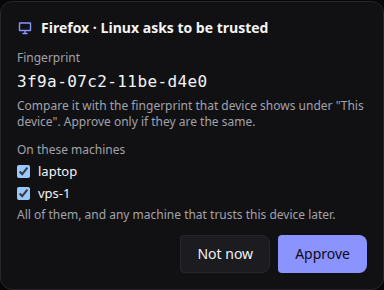
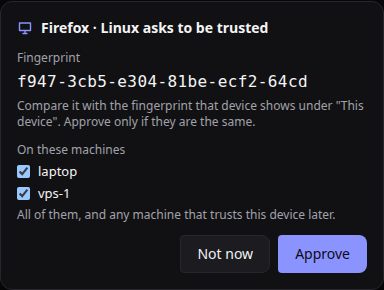
fix(web,tui): sign registrations and asks, 96-bit fingerprints, 64-bit web ids (ADR-0061 review)
- web: registration and "Ask another device" carry this device's own signature
  (agora-device-register-v1 / agora-device-ask-v1); a card is shown only for a device whose
  registration proof verifies in the browser; fingerprints are 96 bits; new browser ids have 64
  random bits (stored ids stay valid).
- tui: same signatures, fingerprint, and proof check before `v` shows a request; names shown
  cleaned and capped.
- Vectors cover registrations and asks; screenshots refreshed; re-verified end to end in a real
  browser against an isolated hub and node.

Changed region(s): [[0.4375, 0.2483, 0.8125, 0.3103], [0.0312, 0.2483, 0.4062, 0.3103]]

diff --git a/apps/web/src/App.tsx b/apps/web/src/App.tsx
@@ -23,7 +23,7 @@ import { commitsOf, type CommitItem } from './net/history';
 import type { WorkspaceFiles } from './net/files';
 import { demoSource } from './terminal/source';
 import { AuditPage, DevicePage, Focus, Gallery, MachinesPage, SignInPage, type MyDevice } from './screens';
-import { browserName, canBeApprovedOn, fingerprint, fromHex, signEndorsement, signRevocation, trustedBy, waitingForApproval, type DeviceInfo } from './net/devices';
+import { browserName, canBeApprovedOn, fingerprint, fromHex, registrationVerifies, signAsk, signEndorsement, signRegistration, signRevocation, trustedBy, waitingForApproval, type DeviceInfo } from './net/devices';
 import { DeviceRequest } from './components/DeviceRequest';
 import { num } from './net/view';
 import { loadAudit } from './net/audit';
@@ -73,6 +73,7 @@ export function App() {
   const [mine, setMine] = useState<DeviceInfo[]>([]);
   const [prints, setPrints] = useState<Map<string, string>>(new Map());
   const [later, setLater] = useState<Set<string>>(new Set());
+  const [proven, setProven] = useState<Set<string>>(new Set());
   const [notice, setNotice] = useState<string | undefined>();
   const [starting, setStarting] = useState<{ node?: string } | false>(false);
   // A machine refused a command until the owner allows it (ADR-0041): what was asked, shown as a dialog.
@@ -172,7 +173,7 @@ export function App() {
   useEffect(() => {
     if (!api || !device || !live) return;
     let stop = false;
-    void api.command('', { deviceRegister: { deviceId: device.id, name: browserName(), publicKey: fromHex(device.publicKeyHex) } })
+    void signRegistration(device, browserName(), Date.now()).then((r) => api.command('', { deviceRegister: r }))
       .catch(() => undefined).then(() => { if (!stop) void refreshDevices(); });
     const timer = setInterval(() => { void refreshDevices(); }, 15_000);
     return () => { stop = true; clearInterval(timer); };
@@ -183,11 +184,13 @@ export function App() {
     if (device) keys.push([device.id, fromHex(device.publicKeyHex)]);
     void Promise.all(keys.map(async ([id, k]) => [id, k.length === 65 ? await fingerprint(k) : ''] as const))
       .then((e) => { if (!stop) setPrints(new Map(e)); }, () => undefined);
+    void Promise.all(mine.map(async (d) => ((await registrationVerifies(d)) ? d.deviceId ?? '' : '')))
+      .then((ids) => { if (!stop) setProven(new Set(ids.filter(Boolean))); }, () => undefined);
     return () => { stop = true; };
   }, [mine, device]);
   const askApproval = useCallback(async (): Promise<boolean> => {
     if (!api || !device) return false;
-    try { await api.command('', { deviceAskApproval: { deviceId: device.id } }); void refreshDevices(); return true; } catch { return false; }
+    try { await api.command('', { deviceAskApproval: await signAsk(device, Date.now()) }); void refreshDevices(); return true; } catch { return false; }
   }, [api, device, refreshDevices]);
   const approveDevice = useCallback(async (d: DeviceInfo, nodes: string[]): Promise<boolean> => {
     if (!api || !device || !d.deviceId || !d.publicKey) return false;
@@ -203,7 +206,7 @@ export function App() {
     try { await api.command('', { deviceRevoke: { revocation: await signRevocation(device, id, Date.now()) } }); void refreshDevices(); return true; } catch { return false; }
   }, [api, device, refreshDevices]);
   const trustedOn = device ? trustedBy(live?.trusted, device.id) : [];
-  const waiting = device && trustedOn.length ? waitingForApproval(mine, device.id).filter((d) => !later.has(d.deviceId ?? '')) : [];
+  const waiting = device && trustedOn.length ? waitingForApproval(mine, device.id).filter((d) => !later.has(d.deviceId ?? '') && proven.has(d.deviceId ?? '')) : [];
   const others: MyDevice[] = mine.filter((d) => d.deviceId && d.deviceId !== device?.id).map((d) => ({
     id: d.deviceId ?? '', name: d.name ?? '', fingerprint: prints.get(d.deviceId ?? '') ?? '', lastUsedMs: num(d.lastUsedMs),
     trustedOn: trustedBy(live?.trusted, d.deviceId ?? ''), waiting: num(d.approvalAskedMs) > 0, removed: num(d.revokedMs) > 0,

diff --git a/apps/web/src/net/devices.ts b/apps/web/src/net/devices.ts
@@ -55,10 +55,51 @@ export function fromHex(hex: string): Uint8Array {
   return out;
 }
 
-// What people compare: the first 8 bytes of the SHA-256 of the 65-byte key, in groups of 2 bytes joined by `-`.
+// What people compare: the first 12 bytes (96 bits) of the SHA-256 of the 65-byte key, in groups of 4 hex digits joined by `-`.
+// Always computed here from the key bytes, never taken from the hub.
 export async function fingerprint(publicKey: Uint8Array, subtle: SubtleCrypto = crypto.subtle): Promise<string> {
-  const d = toHex(new Uint8Array(await subtle.digest('SHA-256', publicKey as BufferSource)).slice(0, 8));
-  return [0, 4, 8, 12].map((i) => d.slice(i, i + 4)).join('-');
+  const d = toHex(new Uint8Array(await subtle.digest('SHA-256', publicKey as BufferSource)).slice(0, 12));
+  return [0, 4, 8, 12, 16, 20].map((i) => d.slice(i, i + 4)).join('-');
+}
+
+// Proof of possession (ADR-0061): what this device signs to register itself, and to ask another device to approve it.
+export function registerMessage(deviceId: string, name: string, publicKey: Uint8Array, signedAtMs: number): Uint8Array {
+  const out = [...enc.encode('agora-device-register-v1'), 0];
+  field(out, deviceId);
+  field(out, name);
+  field(out, toHex(publicKey));
+  field(out, String(signedAtMs));
+  return Uint8Array.from(out);
+}
+
+export function askMessage(deviceId: string, signedAtMs: number): Uint8Array {
+  const out = [...enc.encode('agora-device-ask-v1'), 0];
+  field(out, deviceId);
+  field(out, String(signedAtMs));
+  return Uint8Array.from(out);
+}
+
+const sign = async (device: Device, m: Uint8Array, subtle: SubtleCrypto) =>
+  new Uint8Array(await subtle.sign({ name: 'ECDSA', hash: 'SHA-256' }, device.keys.privateKey, m as BufferSource));
+
+export async function signRegistration(device: Device, name: string, nowMs: number, subtle: SubtleCrypto = crypto.subtle): Promise<agora.v1.IDeviceRegister> {
+  const publicKey = fromHex(device.publicKeyHex);
+  return { deviceId: device.id, name, publicKey, signedAtMs: nowMs, signature: await sign(device, registerMessage(device.id, name, publicKey, nowMs), subtle) };
+}
+
+// Did the holder of the device's key register it as listed? The card for a device that asks is shown only then: a hub cannot make up
+// a request for a key nobody holds.
+export async function registrationVerifies(d: DeviceInfo, subtle: SubtleCrypto = crypto.subtle): Promise<boolean> {
+  const key = d.publicKey, sig = d.registrationSignature;
+  if (!key || key.length !== 65 || !sig || sig.length !== 64 || !d.deviceId) return false;
+  try {
+    const k = await subtle.importKey('raw', key as BufferSource, { name: 'ECDSA', namedCurve: 'P-256' }, false, ['verify']);
+    return await subtle.verify({ name: 'ECDSA', hash: 'SHA-256' }, k, sig as BufferSource, registerMessage(d.deviceId, d.name ?? '', key, Number(d.signedAtMs ?? 0)) as BufferSource);
+  } catch { return false; }
+}
+
+export async function signAsk(device: Device, nowMs: number, subtle: SubtleCrypto = crypto.subtle): Promise<agora.v1.IDeviceAskApproval> {
+  return { deviceId: device.id, signedAtMs: nowMs, signature: await sign(device, askMessage(device.id, nowMs), subtle) };
 }
 
 // The name this browser registers under: the browser and the system, as the person would say it ("Firefox on Linux").

diff --git a/apps/web/src/net/devices.test.ts b/apps/web/src/net/devices.test.ts
@@ -2,7 +2,7 @@ import { describe, expect, it } from 'vitest';
 import vectors from '../../../../schema/fixtures/signing/device-trust-v1.json';
 import { thisDevice, toHex, type KeyStore } from './approval';
 import { applyEvent, fromSnapshot } from './view';
-import { browserName, canBeApprovedOn, endorseMessage, fingerprint, fromHex, revokeMessage, signEndorsement, trustedBy, waitingForApproval } from './devices';
+import { askMessage, browserName, canBeApprovedOn, endorseMessage, fingerprint, fromHex, registerMessage, registrationVerifies, revokeMessage, signAsk, signEndorsement, signRegistration, trustedBy, waitingForApproval } from './devices';
 
 function memoryStore(): KeyStore {
   let saved: Awaited<ReturnType<KeyStore['load']>>;
@@ -24,6 +24,25 @@ describe('device endorsements (ADR-0061)', () => {
       expect(toHex(m), c.case).toBe(c.hex);
       expect(await crypto.subtle.verify(ES256, endorser, fromHex(c.signature) as BufferSource, m as BufferSource)).toBe(true);
     }
+  });
+
+  it('proves it holds its key when it registers and asks, as the hub and the node check', async () => {
+    const key = await crypto.subtle.importKey('raw', fromHex(vectors.endorser_public_key) as BufferSource, { name: 'ECDSA', namedCurve: 'P-256' }, false, ['verify']);
+    for (const c of vectors.registrations) {
+      const m = registerMessage(c.device_id, c.name, fromHex(c.public_key), c.signed_at_ms);
+      expect(toHex(m), c.case).toBe(c.hex);
+      expect(await crypto.subtle.verify(ES256, key, fromHex(c.signature) as BufferSource, m as BufferSource)).toBe(true);
+    }
+    for (const c of vectors.asks) expect(toHex(askMessage(c.device_id, c.signed_at_ms))).toBe(c.hex);
+    const me = await thisDevice(memoryStore());
+    const r = await signRegistration(me, 'Firefox · Linux', 1_700_000_000_000);
+    expect(await crypto.subtle.verify(ES256, me.keys.publicKey, r.signature as BufferSource, registerMessage(me.id, 'Firefox · Linux', fromHex(me.publicKeyHex), 1_700_000_000_000) as BufferSource)).toBe(true);
+    expect(await registrationVerifies({ ...r, registrationSignature: r.signature })).toBe(true);
+    expect(await registrationVerifies({ ...r, name: 'Renamed by the hub', registrationSignature: r.signature })).toBe(false);
+    const other = await thisDevice(memoryStore());
+    expect(await registrationVerifies({ ...r, publicKey: fromHex(other.publicKeyHex), registrationSignature: r.signature })).toBe(false);
+    const a = await signAsk(me, 1_700_000_000_500);
+    expect(await crypto.subtle.verify(ES256, me.keys.publicKey, a.signature as BufferSource, askMessage(me.id, 1_700_000_000_500) as BufferSource)).toBe(true);
   });
 
   it('shows the same fingerprint as every other client', async () => {

diff --git a/apps/web/src/screens.tsx b/apps/web/src/screens.tsx
@@ -85,7 +85,7 @@ function Themed({ theme }: { theme: 'dark' | 'light' }) {
       <AgentAddress agent={{ ...demoHelper, machineId: 'laptop', id: 'laptop/a8' }} />
       <StartApproval approval={demoStartApproval} start={demoStartApproval.start} onResolve={() => {}} />
       <HelperGrants list={async () => [{ id: 'ap-1', kind: 'codex', folder: '/home/dev/code/login-fix', remaining: 2 }]} revoke={async () => {}} refresh={0} />
-      <DeviceRequest inline request={{ id: 'web-3fa9c1', name: 'Firefox · Linux', fingerprint: '3f9a-07c2-11be-d4e0' }}
+      <DeviceRequest inline request={{ id: 'web-3fa9c1d24e5b6a70', name: 'Firefox · Linux', fingerprint: 'f947-3cb5-e304-81be-ecf2-64cd' }}
         machines={[{ id: 'laptop', name: 'laptop' }, { id: 'vps-1', name: 'vps-1' }]} onApprove={async () => true} onLater={() => {}} />
       <div className="gallery__row">
         <button type="button" className="button button--primary">{t('action-start-agent')}</button>

diff --git a/apps/web/src/net/approval.ts b/apps/web/src/net/approval.ts
@@ -54,7 +54,8 @@ export async function thisDevice(store: KeyStore, subtle: SubtleCrypto = crypto.
   let saved = await store.load();
   if (!saved) {
     const keys = await subtle.generateKey(ALGORITHM, false, ['sign', 'verify']);
-    const suffix = toHex(crypto.getRandomValues(new Uint8Array(3)));
+    // 64 random bits (ids made before ADR-0061's review have 24 and stay valid: they are read back as stored).
+    const suffix = toHex(crypto.getRandomValues(new Uint8Array(8)));
     saved = { id: `web-${suffix}`, keys };
     await store.save(saved);
   }

diff --git a/apps/web/src/net/approval.test.ts b/apps/web/src/net/approval.test.ts
@@ -17,7 +17,7 @@ describe('approval signatures', () => {
   it('keeps one device key, whose raw signature verifies against its public key', async () => {
     const store = memoryStore();
     const d = await thisDevice(store);
-    expect(d.id).toMatch(/^web-[0-9a-f]{6}$/);
+    expect(d.id).toMatch(/^web-[0-9a-f]{16}$/); // 64 random bits
     expect(d.publicKeyHex).toHaveLength(130); // 65 bytes
     expect(d.publicKeyHex.startsWith('04')).toBe(true);
     expect((await thisDevice(store)).publicKeyHex).toBe(d.publicKeyHex); // second visit: same key

diff --git a/crates/agora-tui/src/device.rs b/crates/agora-tui/src/device.rs
@@ -218,11 +218,34 @@ pub fn revoke_message(r: &agora_protocol::v1::DeviceRevocation) -> Vec<u8> {
     m
 }
 
-/// What people compare (ADR-0061): the first 8 bytes of the SHA-256 of the key, in groups of 2 bytes joined by `-`.
+/// The bytes a device signs to register itself (ADR-0061 proof of possession; `agora-node::device_trust::register_message`).
+pub fn register_message(
+    device_id: &str,
+    name: &str,
+    public_key: &[u8],
+    signed_at_ms: u64,
+) -> Vec<u8> {
+    let mut m = b"agora-device-register-v1\0".to_vec();
+    field(&mut m, device_id.as_bytes());
+    field(&mut m, name.as_bytes());
+    field(&mut m, hex(public_key).as_bytes());
+    field(&mut m, signed_at_ms.to_string().as_bytes());
+    m
+}
+
+/// The bytes a device signs to ask another device of its person to approve it.
+pub fn ask_message(device_id: &str, signed_at_ms: u64) -> Vec<u8> {
+    let mut m = b"agora-device-ask-v1\0".to_vec();
+    field(&mut m, device_id.as_bytes());
+    field(&mut m, signed_at_ms.to_string().as_bytes());
+    m
+}
+
+/// What people compare (ADR-0061): the first 12 bytes (96 bits) of the SHA-256 of the key, in groups of 4 hex digits joined by `-`.
 pub fn fingerprint(public_key: &[u8]) -> String {
     ring::digest::digest(&ring::digest::SHA256, public_key)
         .as_ref()
-        .get(..8)
+        .get(..12)
         .unwrap_or_default()
         .chunks(2)
         .map(hex)
@@ -237,6 +260,31 @@ impl Device {
     /// The 65-byte public key.
     pub fn public_key(&self) -> Vec<u8> {
         self.pair.public_key().as_ref().to_vec()
+    }
+
+    /// This device registering itself under `name`, signed at `now_ms` with its own key.
+    pub fn registration(
+        &self,
+        name: &str,
+        now_ms: u64,
+    ) -> Option<agora_protocol::v1::DeviceRegister> {
+        let public_key = self.public_key();
+        Some(agora_protocol::v1::DeviceRegister {
+            signature: self.sign(&register_message(&self.id, name, &public_key, now_ms))?,
+            device_id: self.id.clone(),
+            name: name.to_string(),
+            public_key,
+            signed_at_ms: now_ms,
+        })
+    }
+
+    /// This device asking another of its person to approve it, signed at `now_ms`.
+    pub fn ask(&self, now_ms: u64) -> Option<agora_protocol::v1::DeviceAskApproval> {
+        Some(agora_protocol::v1::DeviceAskApproval {
+            device_id: self.id.clone(),
+            signed_at_ms: now_ms,
+            signature: self.sign(&ask_message(&self.id, now_ms))?,
+        })
     }
 
     /// This device's fingerprint, as every client shows it.
@@ -433,6 +481,22 @@ mod tests {
             };
             assert_eq!(hex(&revoke_message(&r)), c["hex"].as_str().unwrap());
         }
+        for c in v["registrations"].as_array().unwrap() {
+            let m = register_message(
+                c["device_id"].as_str().unwrap(),
+                c["name"].as_str().unwrap(),
+                &unhex(c["public_key"].as_str().unwrap()),
+                c["signed_at_ms"].as_u64().unwrap(),
+            );
+            assert_eq!(hex(&m), c["hex"].as_str().unwrap());
+        }
+        for c in v["asks"].as_array().unwrap() {
+            let m = ask_message(
+                c["device_id"].as_str().unwrap(),
+                c["signed_at_ms"].as_u64().unwrap(),
+            );
+            assert_eq!(hex(&m), c["hex"].as_str().unwrap());
+        }
         for f in v["fingerprints"].as_array().unwrap() {
             assert_eq!(
                 fingerprint(&unhex(f["public_key"].as_str().unwrap())),
@@ -461,7 +525,21 @@ mod tests {
         let trust = agora_node::device_trust::DeviceTrust::new("laptop", &file);
         assert!(trust.endorse(&e, now).is_ok());
         assert!(trust.trusted_ids(now).contains(&other.id));
-        assert_eq!(me.fingerprint().len(), 19);
+        assert_eq!(me.fingerprint().len(), 29, "96 bits in groups of 4");
+        let r = me.registration("Terminal on box", now).unwrap();
+        let info = agora_protocol::v1::DeviceInfo {
+            device_id: r.device_id.clone(),
+            name: r.name.clone(),
+            public_key: r.public_key.clone(),
+            signed_at_ms: r.signed_at_ms,
+            registration_signature: r.signature.clone(),
+            ..Default::default()
+        };
+        assert!(agora_node::device_trust::registration_verifies(&info));
+        assert_eq!(
+            ask_message("x", 1),
+            b"agora-device-ask-v1\x001:x1:1".to_vec()
+        );
         let _ = std::fs::remove_dir_all(dir);
     }
 

diff --git a/crates/agora-tui/src/client.rs b/crates/agora-tui/src/client.rs
@@ -717,13 +717,12 @@ impl Session {
     /// ADR-0061: registers this terminal's key and name with the hub under the signed-in person (a candidate for their machines, never
     /// trust by itself). Sent after every sign-in; the hub keeps when it was last used.
     pub fn register_device(&mut self, device: &Device, name: &str) -> Result<(), String> {
+        let registration = device
+            .registration(name, now_ms())
+            .ok_or_else(|| "client.sign".to_string())?;
         self.command(
             "",
-            command_request::Command::DeviceRegister(agora_protocol::v1::DeviceRegister {
-                device_id: device.id.clone(),
-                name: name.to_string(),
-                public_key: device.public_key(),
-            }),
+            command_request::Command::DeviceRegister(registration),
             Duration::from_secs(15),
         )
     }
@@ -743,11 +742,12 @@ impl Session {
 
     /// ADR-0061: asks the person's other devices to approve this one.
     pub fn ask_approval(&mut self, device: &Device) -> Result<(), String> {
+        let ask = device
+            .ask(now_ms())
+            .ok_or_else(|| "client.sign".to_string())?;
         self.command(
             "",
-            command_request::Command::DeviceAskApproval(agora_protocol::v1::DeviceAskApproval {
-                device_id: device.id.clone(),
-            }),
+            command_request::Command::DeviceAskApproval(ask),
             Duration::from_secs(15),
         )
     }
@@ -758,9 +758,7 @@ impl Session {
         device: &Device,
         target: &agora_protocol::v1::DeviceInfo,
     ) -> Result<(), String> {
-        let now = std::time::SystemTime::now()
-            .duration_since(std::time::UNIX_EPOCH)
-            .map_or(0, |d| u64::try_from(d.as_millis()).unwrap_or(0));
+        let now = now_ms();
         let endorsement = device
             .endorse(target, &[], now)
             .ok_or_else(|| "client.sign".to_string())?;
@@ -955,4 +953,11 @@ mod answer_tests {
             None
         );
     }
+}
+
+/// Milliseconds since the Unix epoch (0 before it).
+fn now_ms() -> u64 {
+    std::time::SystemTime::now()
+        .duration_since(std::time::UNIX_EPOCH)
+        .map_or(0, |d| u64::try_from(d.as_millis()).unwrap_or(0))
 }

diff --git a/crates/agora/src/tuicmd.rs b/crates/agora/src/tuicmd.rs
@@ -109,10 +109,13 @@ fn approve_device(
         Ok(l) => l,
         Err(code) => return fail(code),
     };
-    let Some(waiting) = list
-        .into_iter()
-        .find(|d| d.approval_asked_ms > 0 && d.revoked_ms == 0 && d.device_id != device.id)
-    else {
+    let Some(waiting) = list.into_iter().find(|d| {
+        d.approval_asked_ms > 0
+                && d.revoked_ms == 0
+                && d.device_id != device.id
+                // Only a device that registered itself with its own key: the hub cannot make up a request.
+                && agora_node::device_trust::registration_verifies(d)
+    }) else {
         return say.text(
             key!("tui-devices-none-waiting"),
             &[("fingerprint", Arg::Str(device.fingerprint()))],
@@ -137,7 +140,7 @@ fn approve_device(
         return say.text(key!("tui-device-cannot-vouch"), &[]);
     }
     // The name and the fingerprint come from the hub: shown as plain text, never as terminal control sequences.
-    let name = plain(&waiting.name).replace('\n', " ");
+    let name = agora_node::device_trust::shown(&plain(&waiting.name), 40);
     let fingerprint = agora_tui::device::fingerprint(&waiting.public_key);
     let mut out = std::io::stdout();
     let _ = write!(
